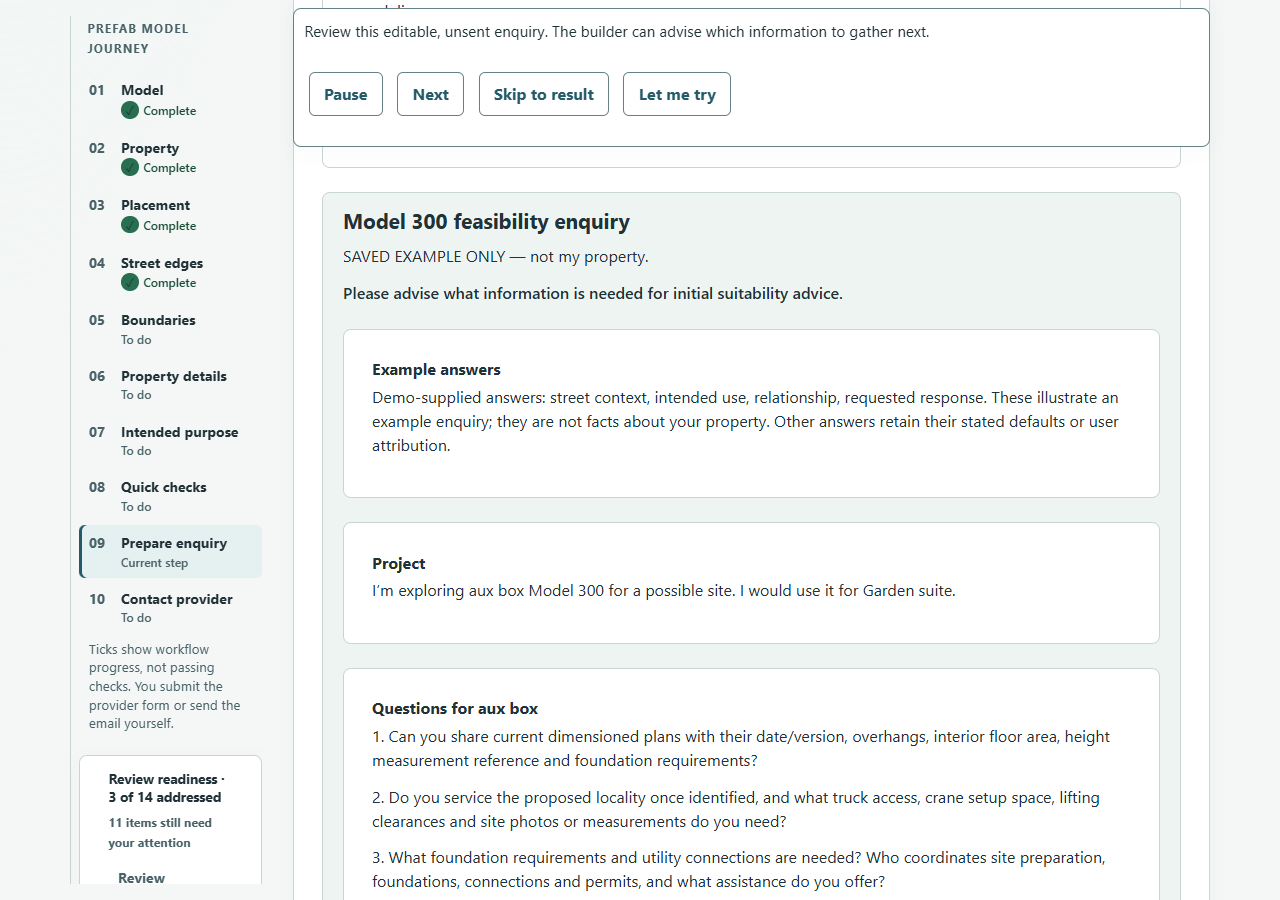
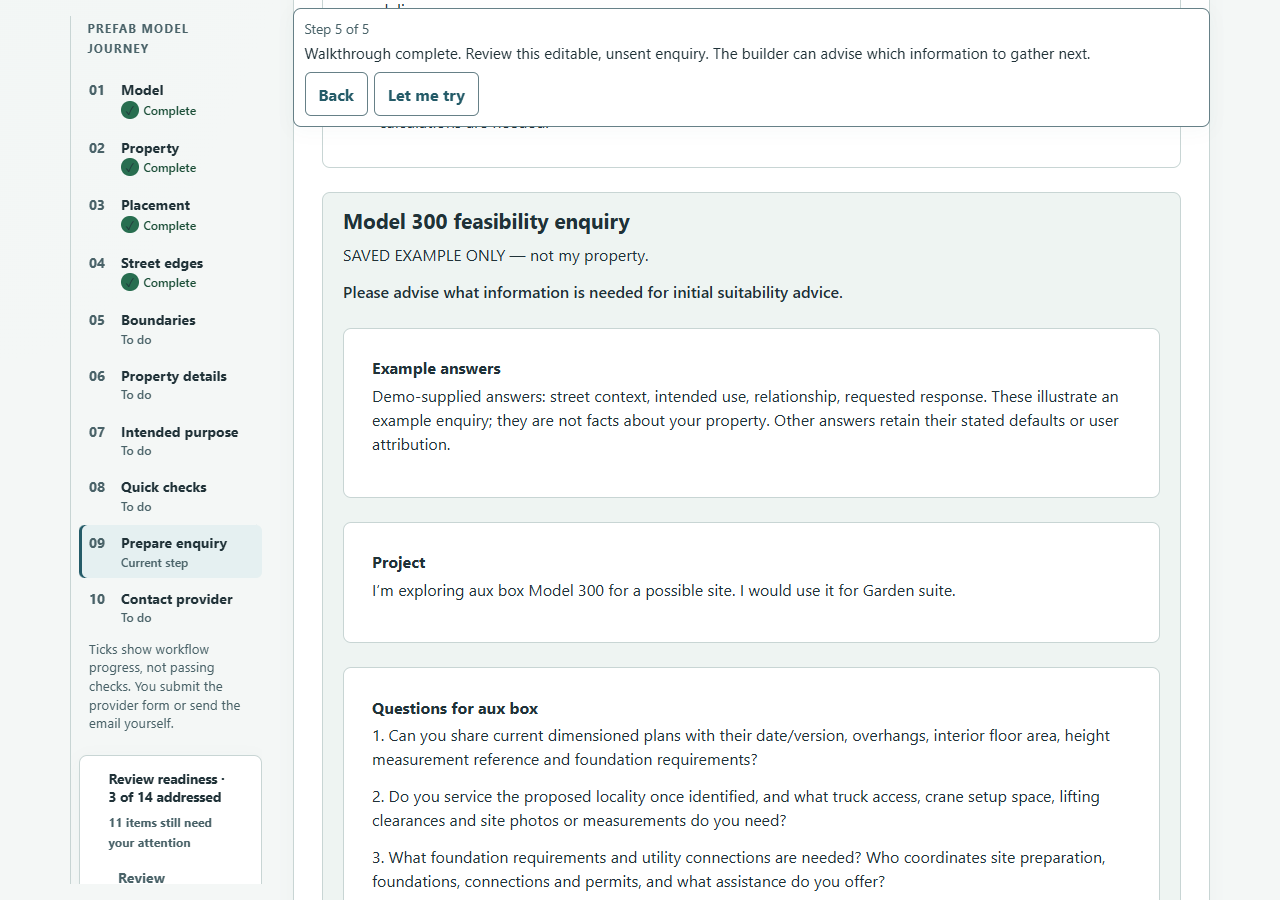
Replace timed walkthrough with floating Next and Back controls (#317)
* Advance the guided walkthrough with explicit Next and Back

* Authenticate CI public image pulls with Docker Hub secrets

* Retry transient Docker Hub login failures

* Pull official base images from ECR Public

diff --git a/frontend/src/builder_demo/BuilderDemo.tsx b/frontend/src/builder_demo/BuilderDemo.tsx
@@ -1,6 +1,6 @@
 import type { AssessmentEntry } from '../navigation/assessmentEntry'
 import { buildingClearanceMove } from './buildingMove'
-import { useWalkthrough } from './walkthrough'
+import { useWalkthrough, walkthroughPhase } from './walkthrough'
 import { FloatingNext, PlaybackLayout } from '../FloatingNext'
 import { findingAcknowledgementKey } from './journeyState'
 import { enquiryUseQualification, manufacturerDocument, placementConcerns, boundaryObservations, additionalObservation, conditionalObservation, assumptionsDescription, type EnquiryInput } from './manufacturer'
@@ -31,7 +31,7 @@ import { ModelImage } from './model_image/ModelImage'
 import { ExampleProperty } from './ExampleProperty'
 import { IntendedUseControl, applyIntendedUse } from './intendedUse'
 import { useRetainedResult } from '../conditional_screening/resultRetention'
-import { demoEnquiryAnswers, movedExamplePosition, exampleCase, exampleSourcePage } from './example'
+import { demoEnquiryAnswers, movedExamplePosition, initialExamplePosition, exampleCase, exampleSourcePage } from './example'
 import { SiteAssumptionsEditor } from '../zoning_site_assumptions/SiteAssumptions'
 import { ordinaryFourEdgeBoundary, type StreetAdjacency, type BoundaryMapMode, type SiteAssumptions } from '../zoning_site_assumptions/model'
 import type { BoundaryMapInteraction } from '../zoning_site_assumptions/BoundaryMapTools'
@@ -544,9 +544,8 @@ export default function BuilderDemo({ onProgressChange, presetRequest = 0, entry
   const readinessSignature = JSON.stringify(reviewReadiness)
   const playback = useWalkthrough(visible, stop =>
     stop === 'model' || stop === 'property' || !!measurementResult && !checksPending &&
-      (stop !== 'moved' && stop !== 'result' && stop !== 'enquiry' ||
-        measurementResult.result.input.placement.centre_xy[0] === Number(movedExamplePosition().x) &&
-        measurementResult.result.input.placement.centre_xy[1] === Number(movedExamplePosition().y)) &&
+      (measurementResult.result.input.placement.centre_xy[0] === Number((stop === 'initial' ? initialExamplePosition() : movedExamplePosition()).x) &&
+        measurementResult.result.input.placement.centre_xy[1] === Number((stop === 'initial' ? initialExamplePosition() : movedExamplePosition()).y)) &&
       (stop !== 'result' && stop !== 'enquiry' || use === demoEnquiryAnswers.intendedUse), geometryFailure)
   const playbackActive = !!playback.state && visible
   playbackLayoutRef.current = playbackActive
@@ -852,7 +851,7 @@ export default function BuilderDemo({ onProgressChange, presetRequest = 0, entry
     if (journeyStep !== expectedStep) return
     const scrollKey = `${playbackRun}:${playbackStop}`
     if (playbackScrolled.current === scrollKey) return
-    if (!playbackActive || !playbackStop || playback.state?.paused) return
+    if (!playbackActive || !playbackStop) return
     const target = playbackStop === 'model' ? 'builder-title' : playbackStop === 'property' ? 'builder-property-title' : playbackStop === 'result' ? 'builder-quick-checks' : playbackStop === 'enquiry' ? 'builder-unsent-preview' : 'placement-map'
     const frame = requestAnimationFrame(() => {
       if (!playbackLayoutRef.current || !journeyVisible.current) return
@@ -860,14 +859,15 @@ export default function BuilderDemo({ onProgressChange, presetRequest = 0, entry
       if (element && !element.closest('[hidden]')) { playbackScrolled.current = scrollKey; element.scrollIntoView?.({ block: 'start', behavior: 'auto' }) }
     })
     return () => { if (typeof cancelAnimationFrame !== 'undefined') cancelAnimationFrame(frame) }
-  }, [playbackActive, playbackStop, playbackRun, playback.state?.paused, journeyStep, expanded, !!enquiryDoc])
+  }, [playbackActive, playbackStop, playbackRun, journeyStep, expanded, !!enquiryDoc])
   return <PlaybackLayout.Provider value={playbackActive}><div className="builder-demo" data-playback={playbackActive || undefined}>
     {playbackActive && <section data-playback-controls className="builder-playback" aria-label="Walkthrough controls">
-      <p aria-live="polite">{playback.state!.finished ? 'Walkthrough complete. ' : ''}{playbackCaptions[playbackStop!]}{geometryFailure ? ' Placement check unavailable. Playback paused; retry or take over.' : !['model', 'property'].includes(playbackStop!) && (!measurementResult || checksPending) ? ' Waiting for current checks; you can pause, retry in the assessment, or take over.' : ''}</p>
+      <span className="builder-playback-progress">Step {walkthroughPhase[playbackStop!]} of 5</span>
+      <p aria-live="polite">{playback.state!.finished ? 'Walkthrough complete. ' : ''}{playbackCaptions[playbackStop!]}{geometryFailure ? ' Placement check unavailable. Retry in the assessment or take over.' : !playback.ready ? ' Waiting for current checks; you can go back or take over.' : ''}</p>
       <div className="sr-actions">
-        <button hidden={playback.state!.finished} type="button" onClick={playback.pause}>{playback.state!.paused ? 'Resume' : 'Pause'}</button>
-        {playback.reducedMotion && !playback.state!.finished && <button type="button" disabled={!playback.ready} onClick={playback.next}>Next</button>}
-        <button hidden={playback.state!.finished} type="button" onClick={playback.skip}>Skip to result</button>
+        <button type="button" disabled={playbackStop === 'model'} onClick={playback.back}>Back</button>
+        {!playback.state!.finished && <button className="builder-continue" type="button" disabled={!playback.ready || playback.state!.skipping} onClick={playback.next}>Next</button>}
+        <button hidden={playback.state!.finished || playbackStop === 'result'} type="button" onClick={playback.skip}>Skip to result</button>
         <button type="button" onClick={() => { playback.cancel(); requestAnimationFrame(() => focusSummaryTarget(document, playbackStop === 'enquiry' ? 'builder-use' : playbackStop === 'model' ? 'builder-model-choice' : 'placement-map')) }}>Let me try</button>
       </div>
     </section>}
@@ -947,7 +947,7 @@ export default function BuilderDemo({ onProgressChange, presetRequest = 0, entry
           <FloatingNext active={journeyStep === 'purpose'} sectionId="builder-purpose"><div className="homeowner-summary__continue"><p>Choose an intended use if known, or keep Not sure or unanswered and continue. Dependent planning checks remain unresolved.</p><button className="builder-continue" type="button" onClick={() => advanceJourneyStep(zoningCase ? 'checks' : 'enquiry')}>Next: {zoningCase ? 'Review quick checks' : 'Prepare enquiry'}<span aria-hidden="true"> →</span></button></div></FloatingNext>
         </div>
       </section></EvidenceAtFooter>}
-      {mode === 'example' && <ExampleProperty onFailureChange={setGeometryFailure} playbackPosition={playbackStop === 'moved' ? { token: playbackRun!, position: movedExamplePosition() } : undefined} model={model} showPlacementConcerns={journeyStep === 'boundaries'} placementConcerns={placementConcernsPanel} onContinueUnresolved={checksPending ? undefined : continueWithPlacementConcerns} moveSuggestion={moveSuggestion?.geometryRevision === geometryRevision ? moveSuggestion : undefined} evidenceTargetId="builder-geometry-evidence" key={revision} placementContinuation={placementContinuation} placementSummary={summaryPanel} boundaryInteraction={boundaryInteraction} onAssessmentPending={setGeometryPending} onMeasurement={value => { setMeasurementResult(value); setReadyFor(null) }} />}
+      {mode === 'example' && <ExampleProperty onFailureChange={setGeometryFailure} playbackPosition={playbackStop === 'initial' || playbackStop === 'moved' ? { token: playbackRun!, position: playbackStop === 'initial' ? initialExamplePosition() : movedExamplePosition() } : undefined} model={model} showPlacementConcerns={journeyStep === 'boundaries'} placementConcerns={placementConcernsPanel} onContinueUnresolved={checksPending ? undefined : continueWithPlacementConcerns} moveSuggestion={moveSuggestion?.geometryRevision === geometryRevision ? moveSuggestion : undefined} evidenceTargetId="builder-geometry-evidence" key={revision} placementContinuation={placementContinuation} placementSummary={summaryPanel} boundaryInteraction={boundaryInteraction} onAssessmentPending={setGeometryPending} onMeasurement={value => { setMeasurementResult(value); setReadyFor(null) }} />}
       {mode === 'live' && (liveCase ? <OccupiedLots catalogue={journeyCatalogue} key={revision} showPlacementConcerns={journeyStep === 'boundaries'} placementConcerns={placementConcernsPanel} onContinueUnresolved={checksPending ? undefined : continueWithPlacementConcerns} placementContinuation={placementContinuation} placementSummary={summaryPanel} moveSuggestion={moveSuggestion?.geometryRevision === geometryRevision ? moveSuggestion : undefined} evidenceTargetId="builder-geometry-evidence" compactPlacement suppliedCase={liveCase} boundaryInteraction={boundaryInteraction} allowedModelIds={[MODEL_ID]} initialModelId={MODEL_ID} onAssessmentPending={setGeometryPending} onMeasurement={value => { setMeasurementResult(value); setReadyFor(null) }} showHandoff={false} /> : <p>Select a Victoria property above to open its captured parcel sketch. Available geometry is approximate and unreviewed.</p>)}
 
     {zoningCase && <><EvidenceAtFooter targetId="builder-rule-evidence"><section className="builder-placement-results" aria-label="Current placement results">

diff --git a/frontend/src/builder_demo/walkthrough.ts b/frontend/src/builder_demo/walkthrough.ts
@@ -3,36 +3,22 @@ import { useEffect, useRef, useState } from 'react'
 // Six stops, five narrated phases: placement has a before and an after.
 export type WalkthroughStop = 'model' | 'property' | 'initial' | 'moved' | 'result' | 'enquiry'
 export const walkthroughStops: WalkthroughStop[] = ['model', 'property', 'initial', 'moved', 'result', 'enquiry']
-const dwell: Record<WalkthroughStop, number> = { model: 7000, property: 7000, initial: 7000, moved: 7000, result: 14000, enquiry: 13000 }
+export const walkthroughPhase: Record<WalkthroughStop, number> = { model: 1, property: 2, initial: 3, moved: 3, result: 4, enquiry: 5 }
 export function useWalkthrough(visible: boolean, isReady: (stop: WalkthroughStop) => boolean, failed = false) {
-  const [state, setState] = useState<{ stop: WalkthroughStop; paused: boolean; finished?: boolean; skipping: boolean; run: number } | null>(null)
-  const ready = state ? isReady(state.stop) : false
+  const [state, setState] = useState<{ stop: WalkthroughStop; finished: boolean; skipping: boolean; run: number } | null>(null)
+  const ready = !!state && (!failed || state.stop === 'model' || state.stop === 'property') && isReady(state.stop)
   const epoch = useRef(0)
   const halt = () => { epoch.current++ }
   const cancel = () => { epoch.current++; setState(null) }
-  const start = () => { const run = ++epoch.current; setState({ stop: 'model', paused: false, skipping: false, run }) }
-  const pause = () => { epoch.current++; setState(previous => previous && { ...previous, paused: !previous.paused }) }
-  const next = () => {
-    epoch.current++
-    setState(previous => !previous || !ready ? previous : previous.stop === 'enquiry' ? { ...previous, finished: true, paused: true, skipping: false } : { ...previous, skipping: previous.stop === 'result' ? false : previous.skipping, stop: walkthroughStops[walkthroughStops.indexOf(previous.stop) + 1] })
-  }
-  const skip = () => { epoch.current++; setState(previous => previous && { ...previous, stop: 'moved', paused: false, skipping: true }) }
-  const [reducedMotion, setReducedMotion] = useState(() => typeof window === 'undefined' ? false : window.matchMedia?.('(prefers-reduced-motion: reduce)').matches ?? false)
-  useEffect(() => {
-    const query = window.matchMedia?.('(prefers-reduced-motion: reduce)')
-    if (!query) return
-    const changed = () => setReducedMotion(query.matches)
-    query.addEventListener('change', changed)
-    return () => query.removeEventListener('change', changed)
-  }, [])
-  useEffect(() => { if (failed) { epoch.current++; setState(previous => previous && { ...previous, paused: true }) } }, [failed])
+  const start = () => { const run = ++epoch.current; setState({ stop: 'model', finished: false, skipping: false, run }) }
+  const go = (stop: WalkthroughStop, skipping = false) => { const run = ++epoch.current; setState({ stop, finished: stop === 'enquiry', skipping, run }) }
+  const next = () => { if (state && ready && !state.finished) go(walkthroughStops[walkthroughStops.indexOf(state.stop) + 1]) }
+  const back = () => { if (state && state.stop !== 'model') go(walkthroughStops[walkthroughStops.indexOf(state.stop) - 1]) }
+  const skip = () => { if (state) go('moved', true) }
   useEffect(() => { if (!visible) cancel() }, [visible])
-  useEffect(() => {
-    if (!state || state.finished || state.paused || !visible || !ready || reducedMotion && !state.skipping) return
-    const token = epoch.current
-    const timer = window.setTimeout(() => { if (epoch.current === token) next() }, state.skipping ? 0 : dwell[state.stop])
-    return () => window.clearTimeout(timer)
-  }, [state, ready, visible, reducedMotion])
+  // Only an explicit Skip completes the moved measurement and opens its result.
+  // Ordinary steps never advance with time or when a response arrives.
+  useEffect(() => { if (state?.skipping && ready && visible && state.run === epoch.current) go('result') }, [state, ready, visible])
   useEffect(() => () => { epoch.current++ }, [])
-  return { state, ready, halt, start, cancel, pause, next, skip, reducedMotion }
+  return { state, ready, halt, start, cancel, next, back, skip }
 }

diff --git a/frontend/src/builder_demo/walkthrough.test.tsx b/frontend/src/builder_demo/walkthrough.test.tsx
@@ -8,7 +8,7 @@ import { act } from 'react'
 import { createRoot } from 'react-dom/client'
 import BuilderDemo from './BuilderDemo'
 
-test('playback pause, skip and edit takeover retain current state and reject an obsolete measurement', async () => {
+test('explicit walkthrough steps, back, skip and edit takeover reject an obsolete measurement', async () => {
   // Retained HTTP boundary response protects workflow identity, not arithmetic.
   // The browser suite separately calls the real local geometry/planning API.
   const fixture = JSON.parse(readFileSync('src/scenario_handoff/retained-assessment.fixture.json', 'utf8'))
@@ -42,13 +42,20 @@ test('playback pause, skip and edit takeover retain current state and reject an 
   try {
     await act(async () => root.render(<BuilderDemo entryRequest={{ example: true, modelId: 'aux-300', walkthrough: true }} />))
     assert.match(caption()!, /Model 300/)
-    await click('Pause'); await tick(550); assert.match(caption()!, /Model 300/)
-    await click('Resume'); await click('Next'); assert.match(caption()!, /Parcel 87/)
+    await tick(550); assert.match(caption()!, /Model 300/)
+    assert.equal(button('Pause'), undefined)
+    await click('Next'); assert.match(caption()!, /Parcel 87/)
+    await click('Back'); assert.match(caption()!, /Model 300/)
+    await click('Next')
     await click('Next'); await tick(800)
     assert.match(caption()!, /starting position/)
     hold = true; await click('Skip to result'); await tick(550)
     assert.ok(held)
-    await click('Pause'); assert.match(caption()!, /Move away/)
+    assert.match(caption()!, /Move away/)
+    assert.equal(button('Next').disabled, true, 'pending moved measurement cannot advance')
+    hold = false
+    await click('Back'); await tick(100)
+    assert.match(caption()!, /starting position/)
     await act(async () => {
       const select = document.querySelector<HTMLSelectElement>('#builder-model-choice')!
       select.value = 'hewing-quadra4'; select.dispatchEvent(new dom.window.Event('change', { bubbles: true }))

diff --git a/frontend/src/builder_demo/builder-demo.css b/frontend/src/builder_demo/builder-demo.css
@@ -168,8 +168,10 @@
 /* One playback control area replaces docking; map controls remain in flow. */
 .builder-playback { position: sticky; top: .5rem; z-index: 51; padding: .65rem; border: 1px solid var(--border-strong); border-radius: var(--radius-card); background: var(--surface); }
 .builder-playback p { margin: 0 0 .4rem; font-size: .95rem; }
-.builder-playback .sr-actions { gap: .4rem; }
-.builder-playback button { min-height: 44px; }
+.builder-playback .sr-actions { gap: .4rem; margin: 0; }
+.builder-playback-progress { display: block; color: var(--ink-muted); font-size: .85rem; margin-bottom: .25rem; }
+.builder-playback .builder-continue { margin: 0; }
+.builder-demo .builder-playback button { min-height: 44px; margin: 0; padding: .45rem .8rem; font-size: 1rem; }
 .builder-demo[data-playback] :is(#builder-title, #builder-property-title, #placement-map, #builder-quick-checks, #builder-enquiry-title) { scroll-margin-top: 12rem; }
 .floating-next--docked :is(.step-action > p, .homeowner-summary__continue > p, .builder-enquiry-confirm > p, .builder-enquiry-confirm > h3) { display: none; }
 .floating-next--docked .builder-continue { width: 100%; margin: 0; }

diff --git a/docs/guided-walkthrough.md b/docs/guided-walkthrough.md
@@ -1,7 +1,7 @@
 # Guided example walkthrough
 
-Implemented against `origin/main` at
-`1dcc50d815005f9aa57e9ce9abaab17cb7294168` on October 9, 2026.
+Initially implemented on October 9, 2026; explicit Next/Back navigation replaces
+timed playback against merged baseline `d7fe466c18914bc2d2cc65601b20340d8b09b1db`.
 This is an editable preliminary demonstration, not accepted site evaluation.
 
 Home offers Start assessment, Try an example and Watch a walkthrough. The latter
@@ -17,17 +17,19 @@ and real local geometry API. The moved centre is `(473693.7, 5362202.36)` in
 EPSG:3157; dimensions and orientation come from the existing example/catalogue.
 The review supplied this movement for this parcel, not for arbitrary geometry.
 No stored response or timer declares success. Placement/current revision readiness
-gates progression; failures pause at the current workspace with retry/takeover.
+gates Next; failures remain at the current workspace with retry/takeover.
 
-The normal narration budget is 55 seconds plus measurement waits. Pause cancels
-advancement and Resume starts the current phase's narration interval again. Skip
-applies the moved input, awaits current checks, supplies related example answers
-together and opens the unsent enquiry. Reduced motion has static captions, instant
-changes and explicit Next/Skip. Completion retains Let me try. No playback action
+One floating panel shows the current explanation, Step 1–5, Back and Next. There
+are no dwell timers or Pause/Resume controls, including with normal motion. Back
+restores the initial placement when revisiting the before/after comparison and
+awaits its new measurement. Next waits for current checks. Skip applies the moved
+input, awaits current checks, supplies related example answers together and stops
+at the findings; Next then opens the unsent enquiry. All transitions use one
+instant scroll after their target renders. Completion retains Back and Let me try. No playback action
 copies, downloads, confirms readiness, opens a provider or sends a message.
 
 Editing, model/property changes, navigation and unmount cancel pending playback.
-Pointer-down invalidates timers without shifting the layout under a click or drag;
+Pointer-down invalidates pending skip advancement without shifting the layout under a click or drag;
 the interaction completes before the caption area is removed. Existing request
 version/abort checks reject old measurements. Playback owns scrolling and suppresses
 both existing docking paths; manual docks now show a compact action. A queued resize
@@ -85,18 +87,19 @@ Final local results: 177 frontend tests passed; TypeScript/Vite build passed;
 48 focused geometry/conditional tests passed; focused Ruff and `git diff --check`
 passed. No database tests were run locally because no isolated PostgreSQL was
 configured. Vite retains its existing large-chunk advisory; FastAPI testing reports
-the existing httpx deprecation. Final normal playback completed in 56.806 seconds.
+the existing httpx deprecation. The original timed version completed in 56.806
+seconds; explicit navigation has no duration target.
 Final-head GitHub CI is a separate integration check.
 
-Observed browser run: pause/resume before advancement and during an in-flight
-measurement; incomplete geometry response; skip and replay with keep/replace; failure and retry; model switch
+Observed browser run: Next/Back with restored initial geometry; disabled Next during an in-flight
+measurement; incomplete geometry response; skip to findings and replay with keep/replace; failure and retry; model switch
 with a late response; property correction/manual fallback; 390 × 844 keyboard
-takeover and reduced motion; navigation exit; normal timed playback; unsent output
+takeover and reduced motion; navigation exit; a normal-motion hold longer than the former dwell without advancement; unsent output
 and exact source evidence. The geometry reproduced about 0.7 m² outside and 1.6 m²
 roof overlap initially, then containment/no observed overlap with about 2.08 m to
 the mapped boundary and 5.08 m to the roofline. These are reproduction observations,
 not copied numerical oracles or legal setbacks. See `browser-results.json` for the
-actual final run duration and unrounded checks.
+actual navigation checks and unrounded measurements.
 
 PDF recipient inspection used Poppler page rendering: the main enquiry carries
 the request, example identity, synthetic-answer attribution, product questions and

diff --git a/docs/quality.md b/docs/quality.md
@@ -261,7 +261,36 @@ links and example-to-real invalidation. No enquiry was sent.
 [The walkthrough record](guided-walkthrough.md) separates mounted behavioral coverage,
 real local API/browser reproduction, source readiness and human validation. It includes
 390 × 844 keyboard/reduced-motion checks, delayed/failed responses and obsolete-response
-takeover. Recipient inspection of an explicitly saved PDF verifies demo attribution but
+takeover. Explicit Next/Back checks restore the before-placement geometry, hold a
+normal-motion step past its former dwell, gate Next on current measurements and
+stop Skip at findings. Recipient inspection of an explicitly saved PDF verifies demo attribution but
 records crowded lower plan sources/footers as an export follow-up; the exact JSON remains complete.
 Municipal success paths, source acceptance, broad accessibility and participant validation
 remain separate gaps. No deployment, source publication or external enquiry was performed.
+
+### CI image-pull registry
+
+Docker Hub first returned unauthenticated pull-limit errors in walkthrough PR #317.
+Authenticated PostgreSQL pulls and backend checks subsequently passed, but container
+pulls repeatedly received token-endpoint timeouts/HTTP 504, even with bounded login
+retries. The owner requested switching to Docker's official images on ECR Public.
+The Dockerfile now pulls Node/Python and CI pulls PostgreSQL from
+`public.ecr.aws/docker/library/`, without login or AWS credentials. Docker Hub login,
+logout and service credentials were removed; the repository secrets and Docker tokens
+remain provisioned but unused by this workflow. No credentials are committed or
+included in builds. Forks use the same anonymous public registry.
+
+On October 9, anonymous registry API reads independently fetched manifest bytes from
+Docker Hub and ECR Public. SHA-256 index digests and Linux AMD64 child digests matched
+for all three exact tags. Index digests at that verification:
+
+| Image tag | Matching index digest |
+|---|---|
+| `node:22.14.0-bookworm-slim` | `sha256:1c18d9ab3af4585870b92e4dbc5cac5a0dc77dd13df1a5905cea89fc720eb05b` |
+| `python:3.12-slim-bookworm` | `sha256:34386ef0cb081344d7ec1c103ba398e6e9f64e9ab3a1509accc92a4e24a07258` |
+| `postgres:17` | `sha256:2d2b8998d31037bf721cfdf764d76ba74171b4fab3431b7f72c27c56ddbdf9e3` |
+
+Tags retain their existing update behavior and are not digest-pinned. Matching
+manifests establish image equivalence at this check; full final-head CI must separately
+verify pulls, disposable database checks, build and container application behavior.
+Railway build/startup verification remains pending until deployment.

diff --git a/docs/architecture.md b/docs/architecture.md
@@ -455,7 +455,9 @@ No new service, database schema or accepted-data publication is introduced.
 
 The existing assessment owns example initialization and a small typed frontend playback
 controller. It calls the existing journey/placement actions and waits for current API
-results; there is no alternate evaluator or tour service. Demo-supplied intended-use
+results. Explicit Next/Back replaces dwell timers; each placement visit has a fresh
+command identity, so Back restores the comparison and rejects stale responses.
+There is no alternate evaluator or tour service. Demo-supplied intended-use
 attribution passes through the existing conditional boundary separately from defaults
 and observations. No persistence, migration or publication changes. See
 [verification and integration gaps](guided-walkthrough.md).

diff --git a/docs/hosting.md b/docs/hosting.md
@@ -9,6 +9,10 @@ the immutable-image delivery/restore criteria in SR-15.
 ## Deployment
 
 - Deploy the repository Dockerfile from trusted main; enable Railway's Wait for CI.
+- Pull the official Node and Python base images from `public.ecr.aws/docker/library/`.
+  CI uses the same public registry for PostgreSQL 17. No registry login or AWS
+  credentials are required. Existing version tags remain mutable; see the matching
+  manifest verification in [quality evidence](quality.md#ci-image-pull-registry).
 - The container serves the frontend and API on port 8000. Set PORT=8000 and domain
   target port to 8000. Configure health path /health, timeout 120 seconds and restart
   policy On Failure with 3 retries in the Railway service settings.
